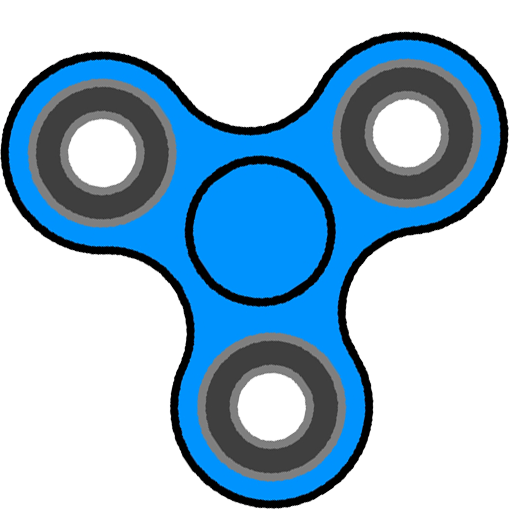
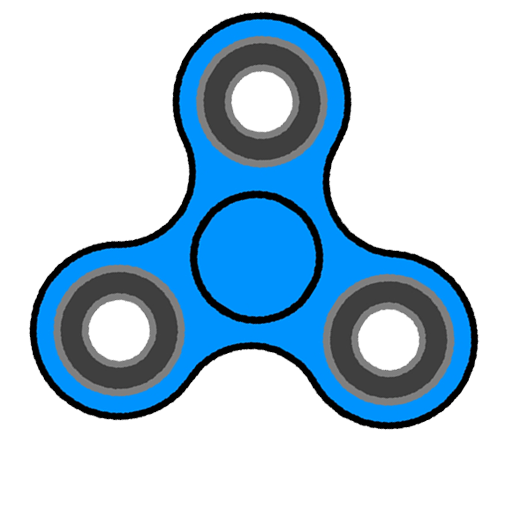
Connection to rest of program
I've connected the fidget toys to the rest of the program. I have done this by add routes for all the different fidget toy. have edit the fidget spinner so looks cleaner.
Edit some of the css for the spacing to not to big ,eg padding and margin for the form element

diff --git a/prototype 1/static/styles.css b/prototype 1/static/styles.css
@@ -1,4 +1,5 @@
 @media only screen and (max-width: 600px) {
+    
     body {
         font-family: Arial, sans-serif;
         background-image: url('images/pink_alpha.png');
@@ -52,9 +53,9 @@
         flex-direction: column;
         align-items: center;
         justify-content: center;
-        background-image: url('images/white_pink_grad.png');
-        margin: 2px 700px 5px 700px;
-        padding: 50px 100px;
+        /* background-image: url('images/white_pink_grad.png'); */
+        /* margin: 2px 700px 5px 700px; */
+        /* padding: 50px 100px; */
         border-radius: 35px;
     }
 
@@ -102,6 +103,7 @@
 }
 
 @media only screen and (min-width: 601px){
+   
     body {
     font-family: Arial, sans-serif;
     background-image: url('images/pink_alpha.png');
@@ -163,14 +165,21 @@
         justify-content: center;
     }
 
+    #center-div {
+        display: flex;
+        justify-content: center;
+        align-items: center;
+        height: 100vh;
+    }
+
     form {
         display: flex;
         flex-direction: column;
         align-items: center;
         justify-content: center;
-        background-image: url('images/white_pink_grad.png');
-        margin: 50px 700px 5px 700px;
-        padding: 20px;
+        /* background-image: url('images/white_pink_grad.png'); */
+        /* margin: 50px 700px 5px 700px; */
+        /* padding: 20px; */
         border-radius: 10px;
     }
 

diff --git a/prototype 1/templates/gameMenu.html b/prototype 1/templates/gameMenu.html
@@ -1,0 +1,30 @@
+<!DOCTYPE html>
+<html>
+    <head>
+        <title>Login</title>
+        <meta charset="UTF-8">
+        <meta name="viewport" content="width=device-width, initial-scale=1.0">
+        <title>Login</title>
+        <link rel="stylesheet" href="{{ url_for('static', filename='styles.css') }}">
+    </head>
+    <body>
+        <form action="/clicker" method="post">
+        <button type="submit">clicker</button>
+        </form>
+        <form action="/spinner" method="post">
+            <button type="submit">Spinner</button>
+        </form>
+        <form action="/squish" method="post">
+            <button type="submit">Squish</button>
+        </form>
+        <form action="/balloon" method="post">
+            <button type="submit">Balloon</button>
+        </form>
+        <!-- need user not default value -->
+        <form action="/greet/cole" method="post">
+            <button type="submit">Back</button>
+        </form>
+
+        
+    </body>
+</html>

diff --git a/prototype 1/templates/balloon.html b/prototype 1/templates/balloon.html
@@ -1,0 +1,19 @@
+<!DOCTYPE html>
+<html>
+    <head>
+        <title>Login</title>
+        <meta charset="UTF-8">
+        <meta name="viewport" content="width=device-width, initial-scale=1.0">
+        <title>Login</title>
+        <link rel="stylesheet" href="{{ url_for('static', filename='styles.css') }}">
+        <script src="/static/script.js"></script>
+    </head>
+    <body>
+        <img src="/static/images/balloon1.png" id="Image-balloon" style="width: 200px; height: 200px;" onclick="popBalloon()">
+        <button onclick="resetBalloon()">Reset Balloon</button>
+        <form action="/games" method="post">
+            <button type="submit">Back to Menu</button>
+        </form>
+        
+    </body>
+</html>

diff --git a/prototype 1/templates/clicker.html b/prototype 1/templates/clicker.html
@@ -1,0 +1,22 @@
+<!DOCTYPE html>
+<html>
+    <head>
+        <title>Login</title>
+        <meta charset="UTF-8">
+        <meta name="viewport" content="width=device-width, initial-scale=1.0">
+        <title>Login</title>
+        <link rel="stylesheet" href="{{ url_for('static', filename='styles.css') }}">
+    </head>
+    <body>
+        
+        <form action="/clicker" method="post">
+            <P>Times clicked:{{count}}</P>
+            <button type="submit">Click Me</button>
+        </form>
+        
+        <form action="/games" method="post">
+            <button type="submit">Back to Menu</button>
+        </form>
+        
+    </body>
+</html>

diff --git a/prototype 1/templates/spinner.html b/prototype 1/templates/spinner.html
@@ -1,0 +1,18 @@
+<!DOCTYPE html>
+<html>
+    <head>
+        <title>Login</title>
+        <meta charset="UTF-8">
+        <meta name="viewport" content="width=device-width, initial-scale=1.0">
+        <title>Login</title>
+        <link rel="stylesheet" href="{{ url_for('static', filename='styles.css') }}">
+        <script src="/static/script.js"></script>
+    </head>
+    <body>
+        <img src="/static/images/spinner.png" id="Image-rotate" style="width: 200px; height: 200px;" onclick="rotateImage()">
+        <form action="/games" method="post">
+            <button type="submit">Back to Menu</button>
+        </form>
+        
+    </body>
+</html>

diff --git a/prototype 1/templates/squish.html b/prototype 1/templates/squish.html
@@ -1,0 +1,17 @@
+<!DOCTYPE html>
+<html>
+    <head>
+        <title>Login</title>
+        <meta charset="UTF-8">
+        <meta name="viewport" content="width=device-width, initial-scale=1.0">
+        <title>Login</title>
+        <link rel="stylesheet" href="{{ url_for('static', filename='styles.css') }}">
+        <script src="/static/script.js"></script>
+    </head>
+    <body>
+        <img src="/static/images/slime.png" id="Image-squish" style="width: 200px; height: 200px;" onclick="squishImage()">
+        <form action="/games" method="post">
+            <button type="submit">Back to Menu</button>
+        </form>
+    </body>
+</html>

diff --git a/prototype 1/templates/greet.html b/prototype 1/templates/greet.html
@@ -8,4 +8,5 @@
         <p>This is a simple Flask application.</p>
         <form action="/games" method="post">
         <button type="submit">play fidgets</button>
+        </form>
     </body>

diff --git a/prototype 1/main.py b/prototype 1/main.py
@@ -34,22 +34,36 @@ def index():
         message = ""
     return render_template("index.html", message=message)
 
-@app.route('/greet/<name>')
+@app.route('/greet/<name>',methods=['GET', 'POST'])
 def greet(name):
     return render_template('greet.html', user_name=name)
 
+
+# game stuff
 # for games
-@app.route('/games')
+@app.route('/games', methods=['GET', 'POST'])
 def games():
-    return render_template('games.html')
+    return render_template('gameMenu.html')
 
 count = 0
 #for clicker game
-@app.route('/games', methods=['POST'])
+@app.route('/clicker', methods=['POST'])
 def increment():
     global count
     count += 1
-    return render_template('games.html', count=count)
+    return render_template('clicker.html', count=count)
+
+@app.route('/spinner',methods=['GET', 'POST'])
+def spinner():
+    return render_template('spinner.html')
+
+@app.route('/squish',methods=['GET', 'POST'])
+def squish():
+    return render_template('squish.html')
+
+@app.route('/balloon', methods=['GET', 'POST'])
+def ballon():
+    return render_template('balloon.html')
 
 #run the application
 if __name__ == '__main__':
